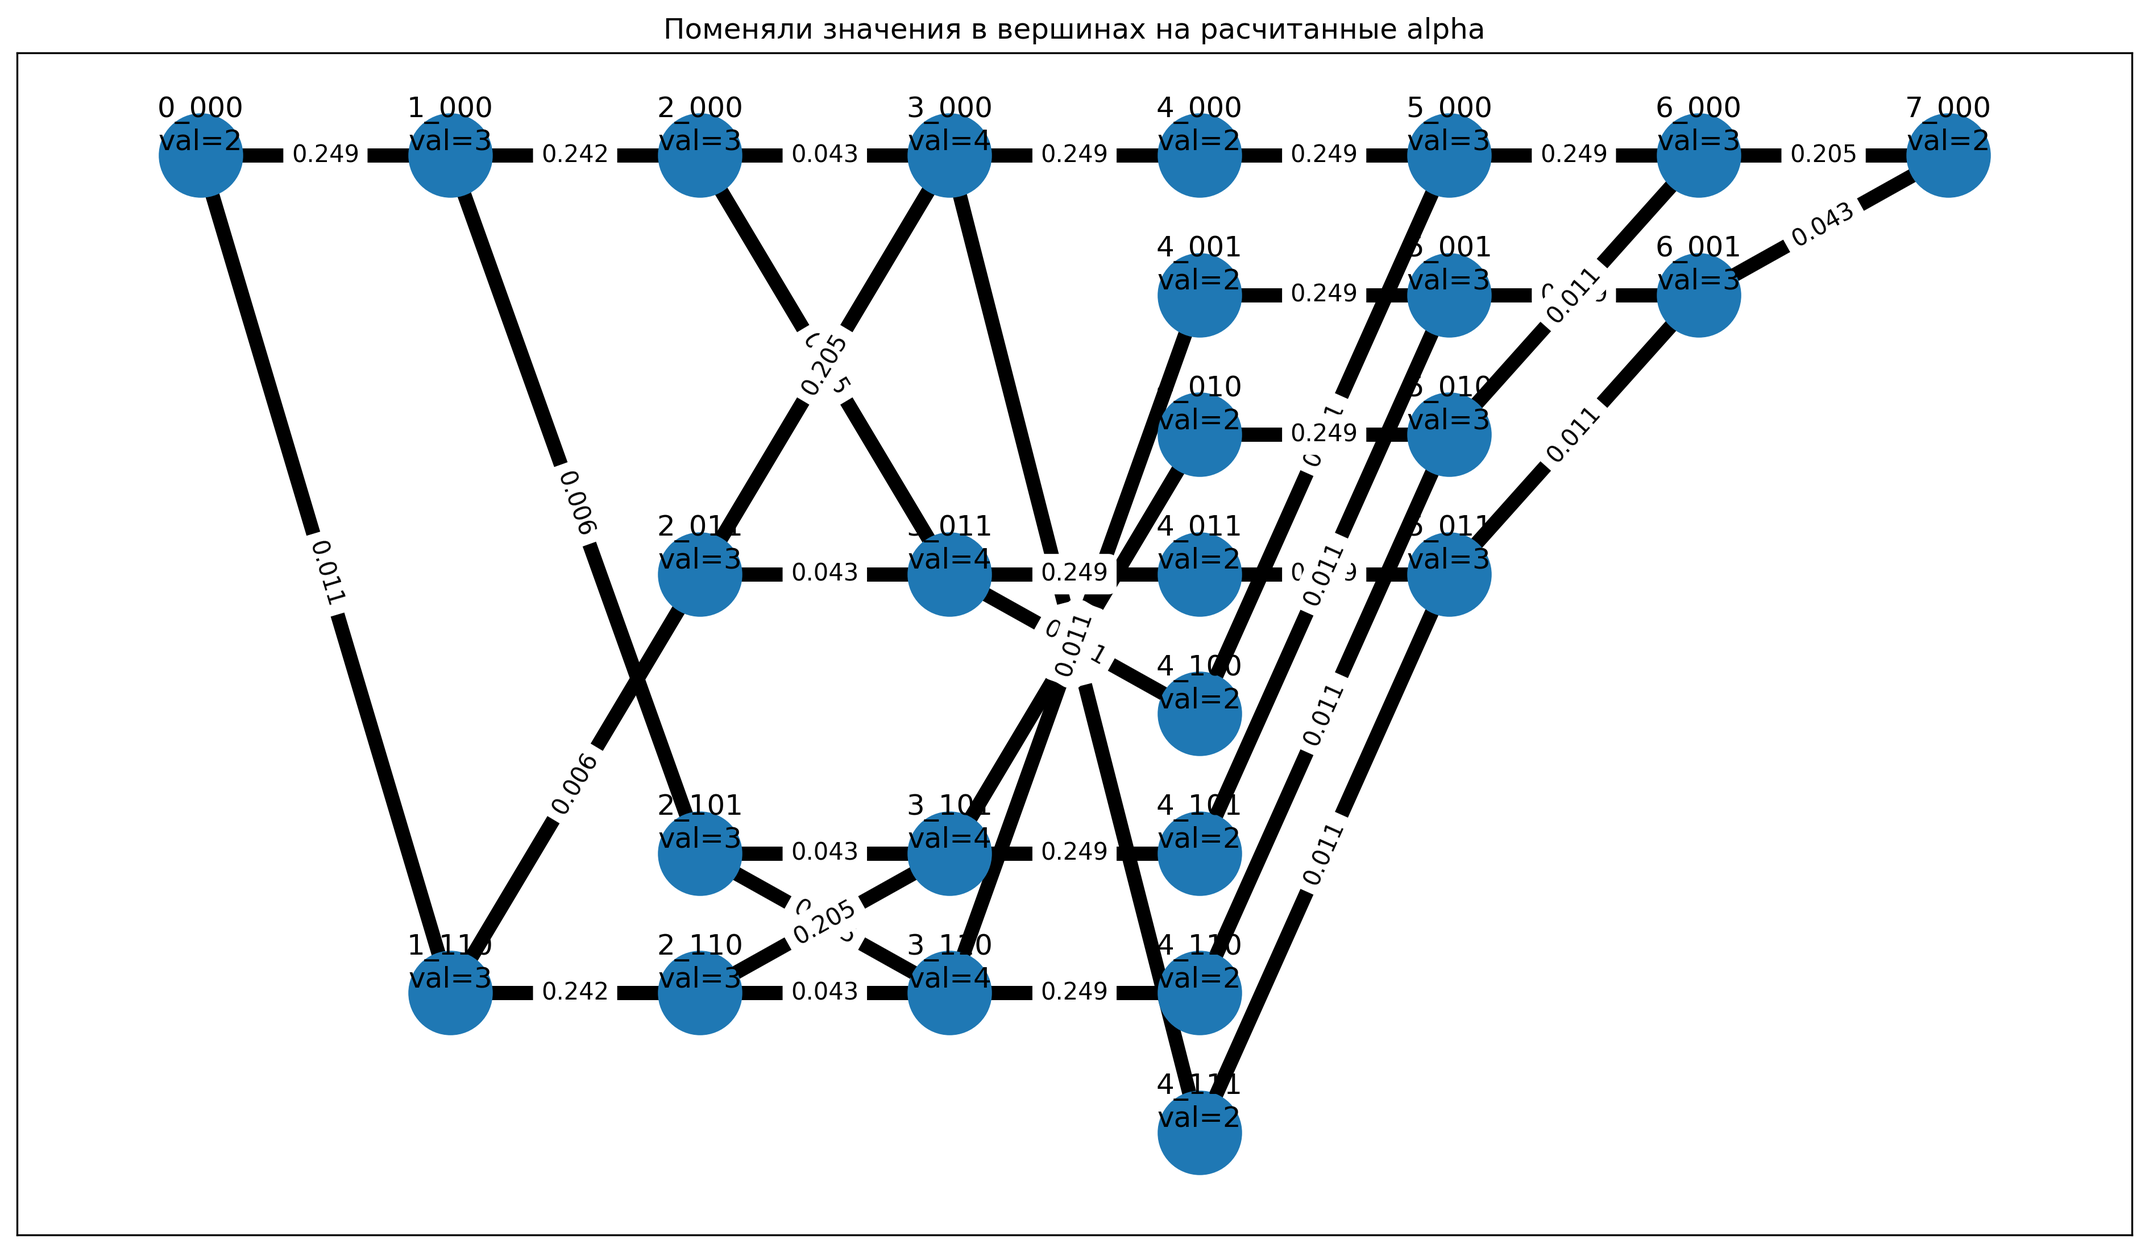
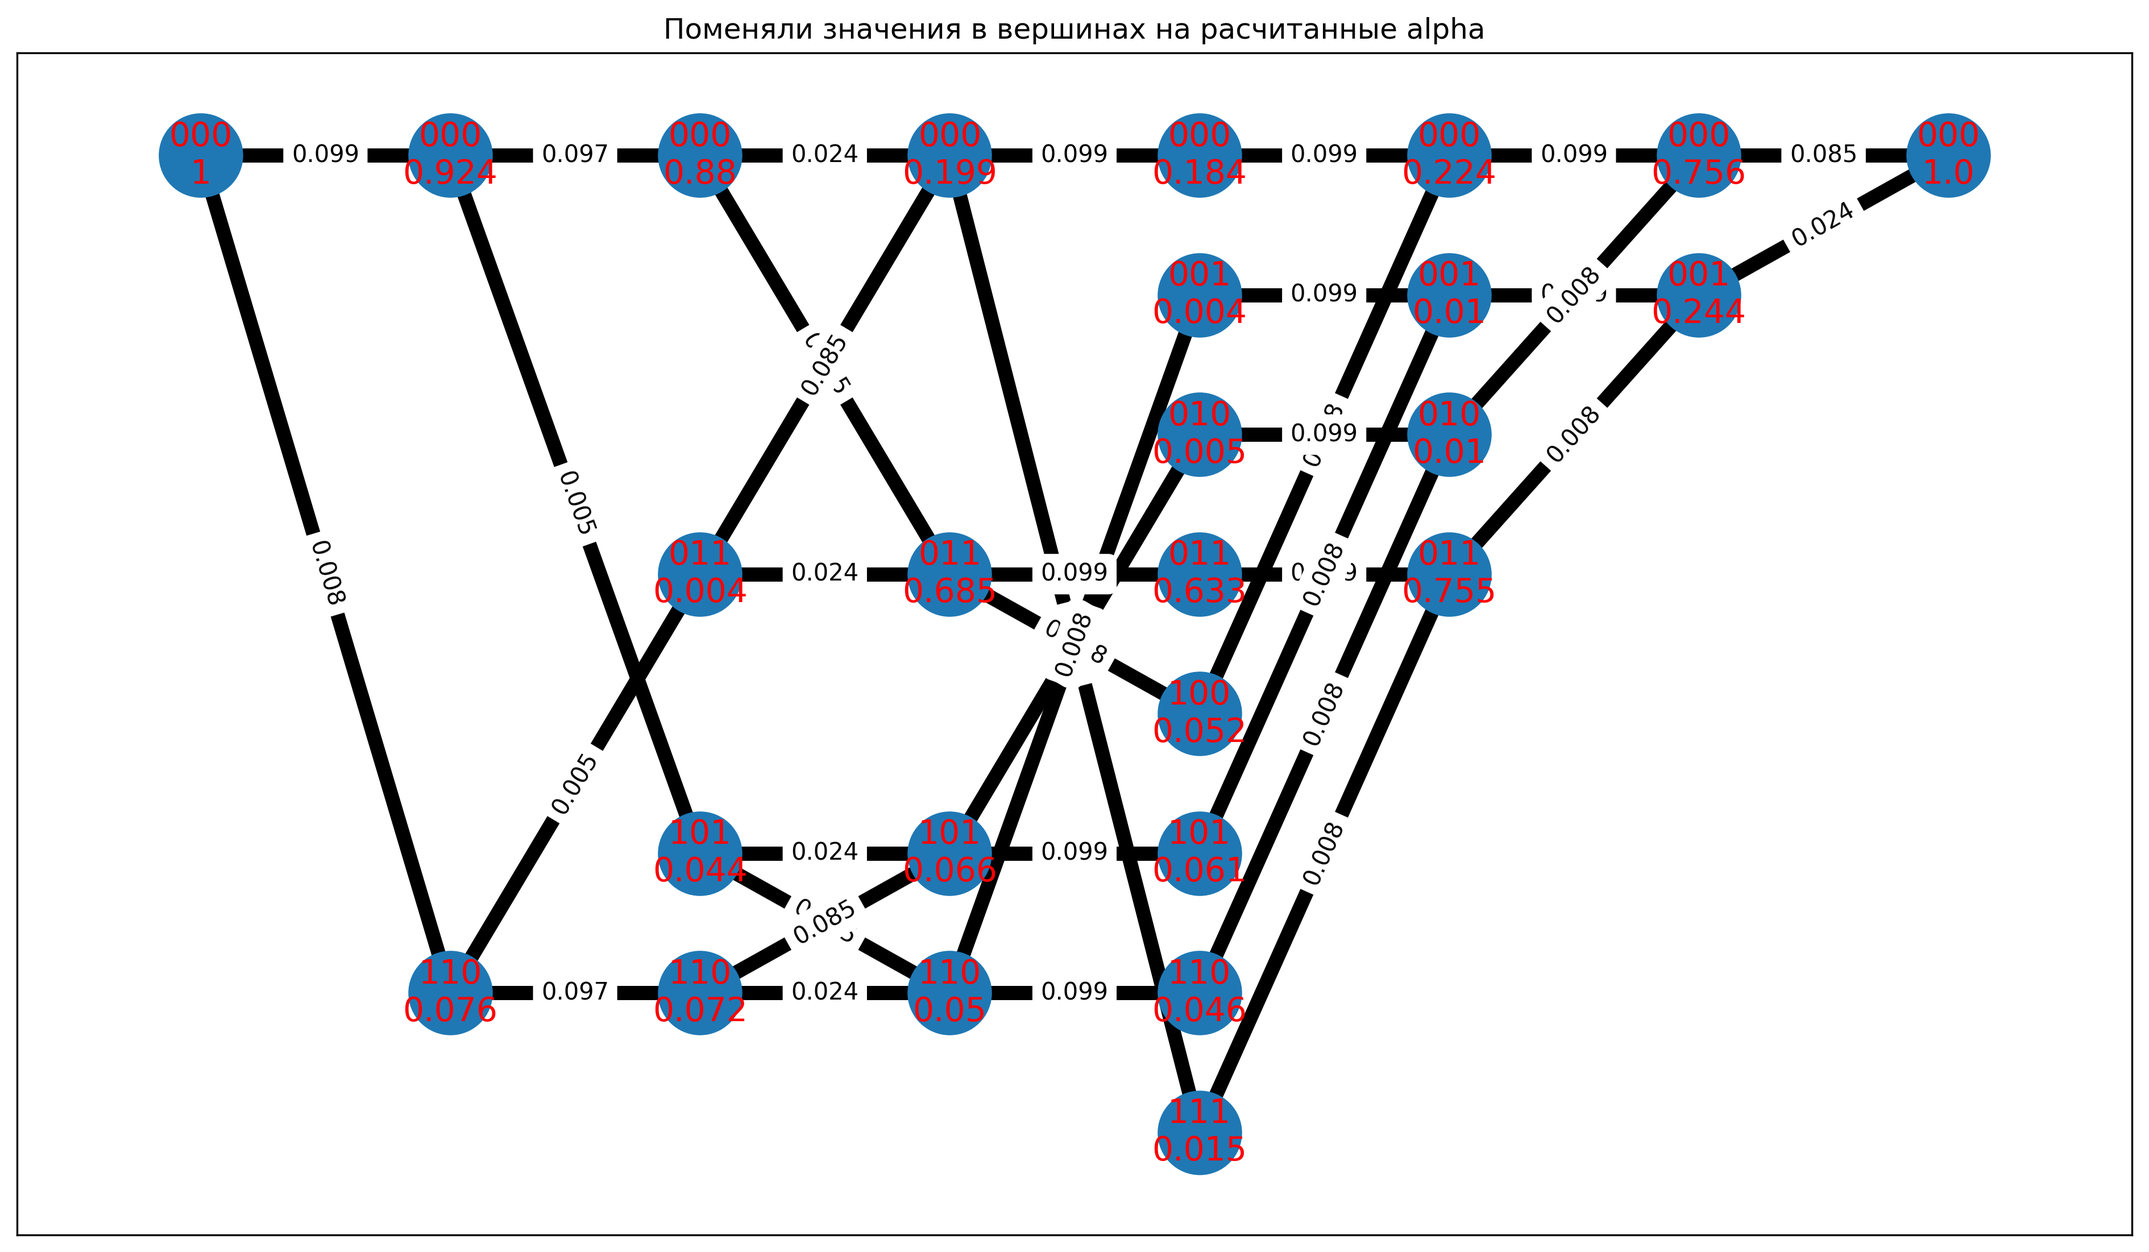
update BCJR_visible

diff --git a/BCJR_visible.py b/BCJR_visible.py
@@ -1,5 +1,6 @@
 from copy import deepcopy
 import numpy as np
+import mpmath as mp
 from simulation.trellis4decoder import Trellis
 
 def gfn_array_to_str(gfns: list) -> str:
@@ -9,142 +10,139 @@ def gfn_array_to_str(gfns: list) -> str:
     return result
 
 class BCJRDecoder:
-    def __init__(self, vex, edg, H, sigma=1.0):
+    def __init__(self, vex, edg):
+        """
+        Инициализация BCJR декодера для линейных блочных кодов на основе решетки.
+        :param vex: Массив с синдромами (список списков символов)
+        :param edg: Массив с рёбрами (список кортежей (синдром1, цифра ребра, синдром2))
+        """
         self.vex = vex
         self.edg = edg
-        self.H = H
-        self.sigma = sigma
-        self.snr = 1 / (2 * sigma**2)
-
-    def decode(self, llr, sigma):
-
-        a_priori = 0.5
-        dispersion = sigma**2
-
+        
         Trellis(vex = self.vex, edg = self.edg).plot_sections('Исходная решетка', '1.Исходная решетка')
-
+        
+        self.edg_bpsk = deepcopy(self.edg)
         self.make_edges_with_bpsk()
+        
+        Trellis(vex = self.vex, edg = self.edg_bpsk).plot_sections('Решетка после BPSK', '2.Решетка после BPSK')
 
-        Trellis(vex = self.vex, edg = self.edg).plot_sections('Решетка после BPSK', '2.Решетка после BPSK')
 
+    def decode(self, llr_in, sigma2):
+        a_priori = 0.5
+
+        '''
+        FORWARD
+        '''
         # Берем структуру edg, меняя значения в ребре на гамму
-        gamma = deepcopy(self.edg)
+        gammas = deepcopy(self.edg_bpsk)
         # последнее ребро не нужно, ибо оно по факту ни о чем. Кол-во ярусов должно быть N, а в массиве их N+1
-        del gamma[-1]
+        del gammas[-1]
 
-        print("gamma")
-        constant_coef = a_priori * (1 / np.sqrt(2 * np.pi * dispersion)) # ВОПРОС. В матлабе эта величина еще возводится в степень N
-        for i in range(len(gamma)):
-            for j in range(len(gamma[i])):
-                diff = (llr[i] - self.edg[i][j][1])**2 / (2 * dispersion)
-                gamma[i][j] = (
-                    gfn_array_to_str(gamma[i][j][0]),
-                    constant_coef * np.exp(-diff),
-                    gfn_array_to_str(gamma[i][j][2])
-                )
-                print(gamma[i][j])
-            print()
-        Trellis(vex = self.vex, edg = gamma).plot_sections_float('Поменяли значения в ребрах на расчитанные gamma', '3.Gamma')
-
-        print("alpha")
         # Сохраняем альфы в виде списка из словарей. Каждый i-ый словарь - это, по сути, ярус
         # Ключ словаря - синдром, он на каждом ярусе уникален. Значение - посчитанная альфа
         # Такой подход обусловлен тем, что пробегаясь по ребрам, мы могли быстро извлечь альфу следующей вершины
-        alpha = [{} for _ in range(len(gamma) + 1)]
-        alpha[0][gamma[0][0][0]] = 1
-        print(alpha[0])
-        for i in range(len(gamma)):
-            for j in range(len(gamma[i])):
-                cur_gamma = gamma[i][j][1]
-                next_vex = gamma[i][j][2]
-                prev_vex = gamma[i][j][0]
+        alphas = [{} for _ in range(len(gammas) + 1)]
+        alphas[0][gfn_array_to_str(gammas[0][0][0])] = 1
 
-                new_alpha = cur_gamma * alpha[i][prev_vex]
+        constant_coef = a_priori * (1 / (2 * mp.pi * sigma2))  # ВОПРОС. В матлабе эта величина еще возводится в степень N
+        for i in range(len(gammas)):
+            for j in range(len(gammas[i])):
+                '''
+                GAMMA SECTION
+                '''
+                diff = (llr_in[i] - self.edg_bpsk[i][j][1]) ** 2 / (2 * sigma2)
+                cur_gamma = constant_coef * mp.exp(-diff)
+                prev_vex = gfn_array_to_str(gammas[i][j][0])
+                next_vex = gfn_array_to_str(gammas[i][j][2])
+
+                gammas[i][j] = (prev_vex, cur_gamma, next_vex)
+
+                # print("layer", i, "/ gamma =", cur_gamma)
+
+                '''
+                ALPHA SECTION
+                '''
+                new_alpha = cur_gamma * alphas[i][prev_vex]
                 # Если вершина с синдромом уже была рассмотрена, то считаем альфу
                 # как сумму раннее посчитанного значения и текущего.
                 # Это случай когда в вершину введет 2 ребра
-                if next_vex in alpha[i + 1]:
-                    alpha[i + 1][next_vex] += new_alpha
+                if next_vex in alphas[i + 1]:
+                    alphas[i + 1][next_vex] += new_alpha
                 # В противном случае просто записываем значение
                 else:
-                    alpha[i + 1][next_vex] = new_alpha
+                    alphas[i + 1][next_vex] = new_alpha
 
             # Normalization
-            summa = sum(alpha[i + 1].values())
-            for key in alpha[i + 1].keys():
-                alpha[i + 1][key] /= summa
+            summa = sum(alphas[i + 1].values())
+            if summa != 0:
+                for key in alphas[i + 1].keys():
+                    alphas[i + 1][key] /= summa
+            
 
-            print(alpha[i + 1])
-        print()
-        Trellis(vex = alpha, edg = gamma).plot_sections_float('Поменяли значения в вершинах на расчитанные alpha', '4.Alpha')
+        Trellis(vex = self.vex, edg = gammas).plot_sections_float('Поменяли значения в ребрах на расчитанные gamma', '3.Gamma')
+        Trellis(vex = alphas, edg = gammas).plot_sections_float_alpha('Поменяли значения в вершинах на расчитанные alpha', '4.Alpha')
 
-        print("beta")
-        beta = [{} for _ in range(len(gamma) + 1)]
-        beta[-1][gamma[0][0][0]] = 1 # в матлабе последний бета равен последнему альфа, а не харкод 1. Однако, в таком подходе в результате нормализации послдений альфа всегда будет 1
-        print(beta[-1])
-        for i in range(len(gamma) - 1, -1, -1):
-            for j in range(len(gamma[i])):
-                cur_gamma = gamma[i][j][1]
+        '''
+        BACKWARD
+        '''
+        betas = [{} for _ in range(len(gammas) + 1)]
+        betas[-1][gammas[0][0][0]] = 1  # в матлабе последний бета равен последнему альфа, а не харкод 1. Однако, в таком подходе в результате нормализации послдений альфа всегда будет 1
+
+        llr_out = [0] * len(llr_in)
+
+        for i in range(len(gammas) - 1, -1, -1):
+            up, down = 0, 0  # числитель и знаменатель для рассчета llr
+            for j in range(len(gammas[i])):
+                '''
+                BETA SECTION
+                '''
+                cur_gamma = gammas[i][j][1]
                 # обратный проход - next и prev меняются местами
-                next_vex = gamma[i][j][0]
-                prev_vex = gamma[i][j][2]
+                next_vex = gammas[i][j][0]
+                prev_vex = gammas[i][j][2]
 
-                new_beta = cur_gamma * beta[i + 1][prev_vex]
-                if next_vex in beta[i]:
-                    beta[i][next_vex] += new_beta
+                new_beta = cur_gamma * betas[i + 1][prev_vex]
+                if next_vex in betas[i]:
+                    betas[i][next_vex] += new_beta
                 else:
-                    beta[i][next_vex] = new_beta
+                    betas[i][next_vex] = new_beta
 
-            # Normalization
-            summa = sum(beta[i].values())
-            for key in beta[i].keys():
-                beta[i][key] /= summa
-
-            print(beta[i])
-        print()
-        Trellis(vex = beta, edg = gamma).plot_sections_float('Поменяли значения в вершинах на расчитанные beta', '5.Beta')
-
-        print("sigma")
-        sigma = deepcopy(gamma)
-        for i in range(len(gamma)):
-            for j in range(len(gamma[i])):
-                cur_gamma = gamma[i][j][1]
-                next_vex = gamma[i][j][2]
-                prev_vex = gamma[i][j][0]
-
+                '''
+                SIGMA SECTION
+                '''
                 # Берем альфу, которая слева от текущего ребра
-                cur_alpha = alpha[i][prev_vex]
+                cur_alpha = alphas[i][next_vex]
                 # Берем бету, которая справа от текущего ребра
-                cur_beta = beta[i + 1][next_vex]
+                cur_beta = betas[i + 1][prev_vex]
 
-                sigma[i][j] = (
-                    prev_vex,
-                    cur_gamma * cur_alpha * cur_beta,
-                    next_vex
-                )
+                cur_sigma = cur_gamma * cur_alpha * cur_beta
 
-                print(sigma[i][j])
-            print()
-
-        print("LLR")
-        out_llr = []
-        for i in range(len(sigma)):
-            up, down = 0, 0
-            for j in range(len(sigma[i])):
+                '''
+                LLR SECTION
+                '''
                 # не забываем про БПСК, по факту ищем ребра с 0
-                if self.edg[i][j][1] == 1:
-                    up += sigma[i][j][1]
+                if self.edg_bpsk[i][j][1] == 1:
+                    up += cur_sigma
                 else:
-                    down += sigma[i][j][1]
+                    down += cur_sigma
 
+            # print("up=", up, " down=", down, " log=", np.log(up / down), end=" // ", sep="")
+            # llr_out[i] = np.log(up / down)
             # такое вообще возможно?
-            if down != 0:
-                out_llr.append(np.log(up / down))
+            if down == 0:
+                llr_out[i] = 9999
             else:
-                out_llr.append(9999)
-        print(out_llr)
+                llr_out[i] = mp.ln(up / down)
+
+            # Normalization beta
+            summa = sum(betas[i].values())
+            if summa != 0:
+                for key in betas[i].keys():
+                    betas[i][key] /= summa
+        Trellis(vex = betas, edg = gammas).plot_sections_float_alpha('Поменяли значения в вершинах на расчитанные beta', '5.Beta')
+        return llr_out
 
     def make_edges_with_bpsk(self):
-        for i in range(len(self.edg)):
-            for j in range(len(self.edg[i])):
-                self.edg[i][j] = (self.edg[i][j][0], -2 * int(self.edg[i][j][1]) + 1, self.edg[i][j][2])
+        for i in range(len(self.edg_bpsk)):
+            for j in range(len(self.edg_bpsk[i])):
+                self.edg_bpsk[i][j] = (self.edg_bpsk[i][j][0], -2 * int(self.edg_bpsk[i][j][1]) + 1, self.edg_bpsk[i][j][2])

diff --git a/simulation/trellis4decoder.py b/simulation/trellis4decoder.py
@@ -121,18 +121,59 @@ class Trellis:
         plt.figure(figsize=(16, 9))
         G = nx.Graph()
         G.add_edges_from(edges)
-        # !
-        node_values = {node: f"{node}\nval={G.degree(node)}" for node in G.nodes()}
-        # !
+
         pos = nx.spring_layout(G) # Вычисление позиций узлов
         nx.draw_networkx_nodes(G, pos_dict, node_size=1200) # Рисуем узлы
-        nx.draw_networkx_labels(G, pos_dict, font_size=12, font_family='sans-serif', labels=node_values, verticalalignment='bottom') # Подписываем узлы
+        nx.draw_networkx_labels(G, pos_dict, font_size=12, font_family='sans-serif') # Подписываем узлы
         nx.draw_networkx_edges(G, pos_dict, edgelist=edges, width=6) # Отображаем рёбра
         labels = nx.get_edge_attributes(G, 'weight') # Получаем веса рёбер
         nx.draw_networkx_edge_labels(G, pos_dict, edge_labels=labels) # Добавляем подписи рёбер
         if title is not None:
             plt.title(title)
 
+        if save_name is None:
+            plt.show()
+        else:
+            plt.savefig(f'process_in_pictures/{save_name}.png', dpi=300, bbox_inches='tight')
+
+    def plot_sections_float_alpha(self, title=None, save_name=None):
+        start, end = [0, len(self.vex) - 1]
+        edges = []  # Список рёбер
+        pos_dict = {}  # Словарь с координатами узлов
+        node_values = {}  # Подписи узлов
+        # Обход вершин по слоям
+        for num_layer, v_layer in zip(range(start, end + 1), self.vex[start:end + 1]):
+            for key in v_layer:
+                node_name = f"{num_layer}_{key}"  # Приводим к формату v2str
+                pos_dict[node_name] = np.array([num_layer, -arr2int(key)])  # Позиция узла
+                node_values[node_name] = f"{key}\n{round(v_layer[key], 3)}"
+        
+        # Обход рёбер по слоям
+        for num_layer, e_layer in zip(range(start, end), self.edg[start:end]):
+            for e in e_layer:
+                v0, a, v1 = e
+                edges.append((v2str(v0, num_layer), v2str(v1, num_layer+1), {'weight': round(a, 3)}))
+        plt.figure(figsize=(16, 9))
+        G = nx.Graph()
+        G.add_edges_from(edges)
+        
+        # Вычисление позиций узлов
+        nx.draw_networkx_nodes(G, pos_dict, node_size=1200)
+        nx.draw_networkx_labels(
+            G, pos_dict,
+            font_size=14,
+            font_family='sans-serif',
+            labels=node_values,
+            # verticalalignment='bottom',
+            font_color="red"
+        )
+        nx.draw_networkx_edges(G, pos_dict, edgelist=edges, width=6)
+        labels = nx.get_edge_attributes(G, 'weight')
+        nx.draw_networkx_edge_labels(G, pos_dict, edge_labels=labels)
+        
+        if title is not None:
+            plt.title(title)
+        
         if save_name is None:
             plt.show()
         else:

diff --git a/main.py b/main.py
@@ -6,24 +6,12 @@ import numpy as np
 t_h = Trellis('matricies/file_hamming.csv')
 
 t_h.build_trellis()
-# t_h.plot_sections()
-print('len(t_h.vex): ',len(t_h.vex),'\n')
-print('t_h.vex[0]): ',t_h.vex[0],'\n')
-print('t_h.vex[1]): ',t_h.vex[1],'\n')
-print('t_h.vex[2]): ',t_h.vex[2],'\n')
+# print('len(t_h.vex): ',len(t_h.vex),'\n')
+# print('t_h.vex[0]): ',t_h.vex[0],'\n')
+# print('t_h.vex[1]): ',t_h.vex[1],'\n')
+# print('t_h.vex[2]): ',t_h.vex[2],'\n')
 
-
-# print(t_h.edg)
-
-# t_h2 = Trellis(vex=t_h.vex, edg=t_h.edg)
-
-# t_h2.plot_sections()
-
-H = np.array([[1, 1, 0, 1, 1, 0, 0],
-              [1, 0, 1, 1, 0, 1, 0],
-              [0, 1, 1, 1, 0, 0, 1]])
-
-decoder = BCJRDecoder(t_h.vex, t_h.edg, H, sigma=0.5)
+decoder = BCJRDecoder(t_h.vex, t_h.edg)
 # received = np.array([1.2, -0.8, 0.5, -1.1, 0.9, -0.7, 0.3])
 decoder.decode([1, 1.2, -0.5, 1, 1, 1, 0.5], 0.8)
 # print("Декодированное слово:", decoded)
